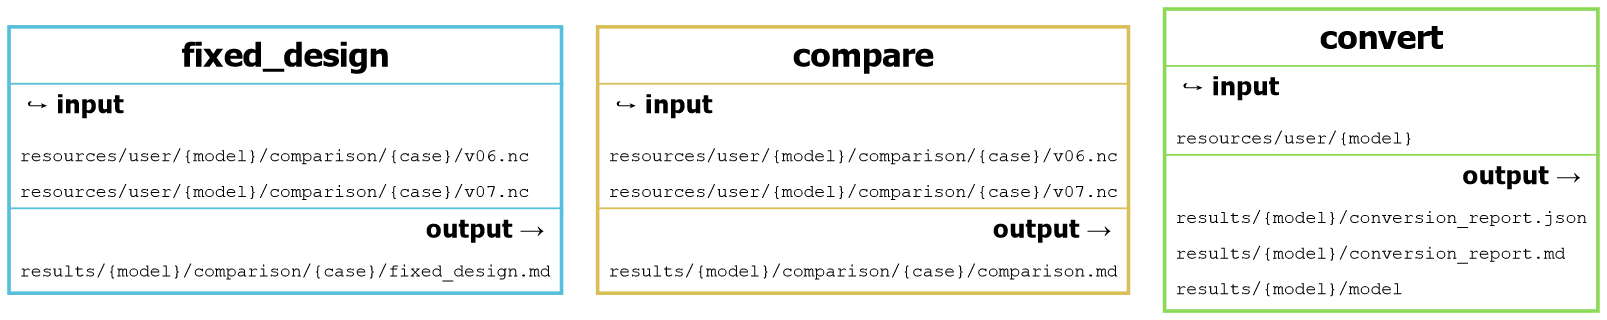
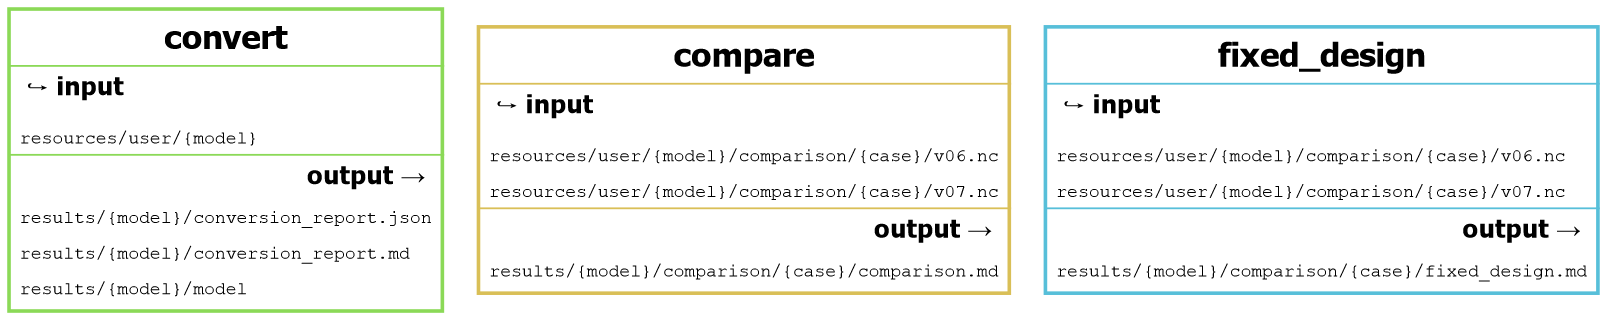
Reorganise plot scripts

Changed region(s): [[0.0, 0.0, 0.9956, 1.0], [0.4045, 0.125, 0.5912, 0.2188]]

diff --git a/tools/make_dag.py b/tools/make_dag.py
@@ -1,0 +1,51 @@
+"""Build docs/figures/dag.png: the workflow rules with their inputs and outputs (Snakemake file graph).
+
+The rules are independent (no edges), so Graphviz would order them arbitrarily: invisible edges on one rank put
+them left to right as `convert`, `compare`, `fixed_design`. Needs the ERS_test_example inputs (incl. the comparison
+case week_1h):
+
+    pixi run dag
+"""
+
+from __future__ import annotations
+
+import re
+import subprocess
+import sys
+from pathlib import Path
+
+ROOT = Path(__file__).resolve().parents[1]
+OUT = ROOT / "docs" / "figures" / "dag.png"
+TARGETS = [
+    "results/ERS_test_example/conversion_report.md",
+    "results/ERS_test_example/comparison/week_1h/comparison.md",
+    "results/ERS_test_example/comparison/week_1h/fixed_design.md",
+]
+ORDER = ["convert", "compare", "fixed_design"]
+
+
+def main() -> int:
+    """Render the file graph with the rules in a fixed order."""
+    dot = subprocess.run(
+        ["snakemake", "-s", "workflow/Snakefile", "--filegraph", *TARGETS],
+        cwd=ROOT,
+        capture_output=True,
+        text=True,
+        check=True,
+    ).stdout
+    dot = dot[dot.index("digraph") :]  # drop any log lines before the graph
+    ids = {}
+    for node_id, body in re.findall(r"^(\d+) \[(.*?)\]\s*$", dot, flags=re.MULTILINE | re.DOTALL):
+        name = re.search(r'<font point-size="18">([^<]+)</font>', body)
+        if name:
+            ids[name.group(1)] = node_id
+    chain = " -> ".join(ids[rule] for rule in ORDER if rule in ids)
+    if chain.count("->") >= 1:
+        dot = dot.rstrip().removesuffix("}") + f"{{ rank=same; {chain} [style=invis]; }}\n}}\n"
+    subprocess.run(["dot", "-Tpng", "-Gdpi=130", "-o", str(OUT)], input=dot, text=True, check=True, cwd=ROOT)
+    print(f"written {OUT}")
+    return 0
+
+
+if __name__ == "__main__":
+    sys.exit(main())

diff --git a/tools/make_consistency_figure.py b/tools/make_consistency_figure.py
@@ -3,7 +3,7 @@
 Reads the user-provided runs in `resources/user/<model>/comparison/<case>/` (v06.nc, v07.nc and, for the
 fixed-design check, v07_fixed.nc) with the `compare` functions, so the figure can be rebuilt after any change:
 
-    pixi run python docs/figures/make_consistency_figure.py
+    pixi run consistency-figure
 
 Layout (2 x 3): total cost gap, error distribution, per node vs summed over nodes; then one parity plot per case
 (capacities and flows together, coloured by their divergence from the 1:1 line on one shared scale).
@@ -18,7 +18,7 @@ import numpy as np
 import pandas as pd
 import xarray as xr
 
-ROOT = Path(__file__).resolve().parents[2]
+ROOT = Path(__file__).resolve().parents[1]
 sys.path.insert(0, str(ROOT / "workflow" / "scripts"))
 
 from converter.compare import (  # noqa: E402

diff --git a/CLAUDE.md b/CLAUDE.md
@@ -57,11 +57,13 @@ Guidance for working on this repository.
   - `fixed_design.py`: optional fixed-design check (`fixed_design` rule, never a default target): writes
     `fix_v06_design.yaml` (v0.6 capacities fixed, slack 1e-6); the user's `v07_fixed.nc` gives the verdict
     EQUIVALENT / COSTLIER / CHEAPER / INFEASIBLE in `fixed_design.md`. How-to and tested cases: `docs/consistency.md`
-    (figure rebuilt by `docs/figures/make_consistency_figure.py`). Structural v0.6/v0.7 differences found this way
+    (figure rebuilt by `tools/make_consistency_figure.py`, `pixi run consistency-figure`). Structural v0.6/v0.7 differences found this way
     get a converter fix and a row in `docs/conventions.md` section 16.
   - `runscripts.py`: legacy run scripts (`run-*.py`) read statically -> v0.7 run script (settings verbatim,
     overrides by name, merged at runtime with v0.6 "later wins"; nothing added to the model YAML).
   - `math/`: static custom math.
+- `tools/`: developer scripts for the documentation figures in `docs/figures/` (`pixi run dag`,
+  `pixi run consistency-figure`); not part of the shipped module.
 - `workflow/internal/settings.yaml` lists the package files so Snakemake ships them. **Update it when adding files.**
 - `tests/fixtures/mini_legacy/`: small v0.6 model exercising every feature.
   `resources/` and `results/` are gitignored (the 2030 model is 2.9 GB).
@@ -76,7 +78,7 @@ big for this machine.
 pixi run test                        # unit + robustness (hypothesis) + end-to-end
 pixi run -e calliope test-calliope   # converted models load/build/solve in Calliope v0.7 (HiGHS)
 pixi run test-integration            # Modelblocks standard tests
-pixi run ruff check workflow tests && pixi run ruff format workflow tests && pixi run snakefmt workflow
+pixi run ruff check workflow tests tools && pixi run ruff format workflow tests tools && pixi run snakefmt workflow
 pixi run snakemake --cores 1 -s workflow/Snakefile results/ERS_test_example/conversion_report.md
 pixi run export-snakemake-env module # after changing the `module` pixi feature
 pixi run snakemake --cores 1 -s workflow/Snakefile results/ERS_test_example/comparison/week_1h/comparison.md

diff --git a/README.md b/README.md
@@ -87,7 +87,7 @@ pixi run test                     # unit, robustness and end-to-end tests
 pixi run -e calliope test-calliope  # converted models load, build and solve with Calliope v0.7 (HiGHS)
 pixi run test-integration         # Modelblocks standard tests (incl. the integration workflow)
 pixi run dag                      # docs/figures/dag.png (workflow figure)
-pixi run python docs/figures/make_consistency_figure.py  # docs/figures/consistency_cases.png
+pixi run consistency-figure       # docs/figures/consistency_cases.png
 ```
 
 Converting a model in this repository (legacy models placed in `resources/user/<model>/`):

diff --git a/docs/consistency.md b/docs/consistency.md
@@ -25,7 +25,7 @@ when summed (the same solution allocated differently across regions), except urb
 heat both ways in equal-cost ways. D-F: one plot per case, capacities (circles) and total flows (triangles) against
 the 1:1 line, each scaled to the largest value of its kind, coloured by the divergence from 1:1 on one shared scale;
 hollow markers are free capacities. Rebuild with
-`pixi run python docs/figures/make_consistency_figure.py`.*
+`pixi run consistency-figure` (`tools/make_consistency_figure.py`).*
 
 ## 1. Produce the runs
 
